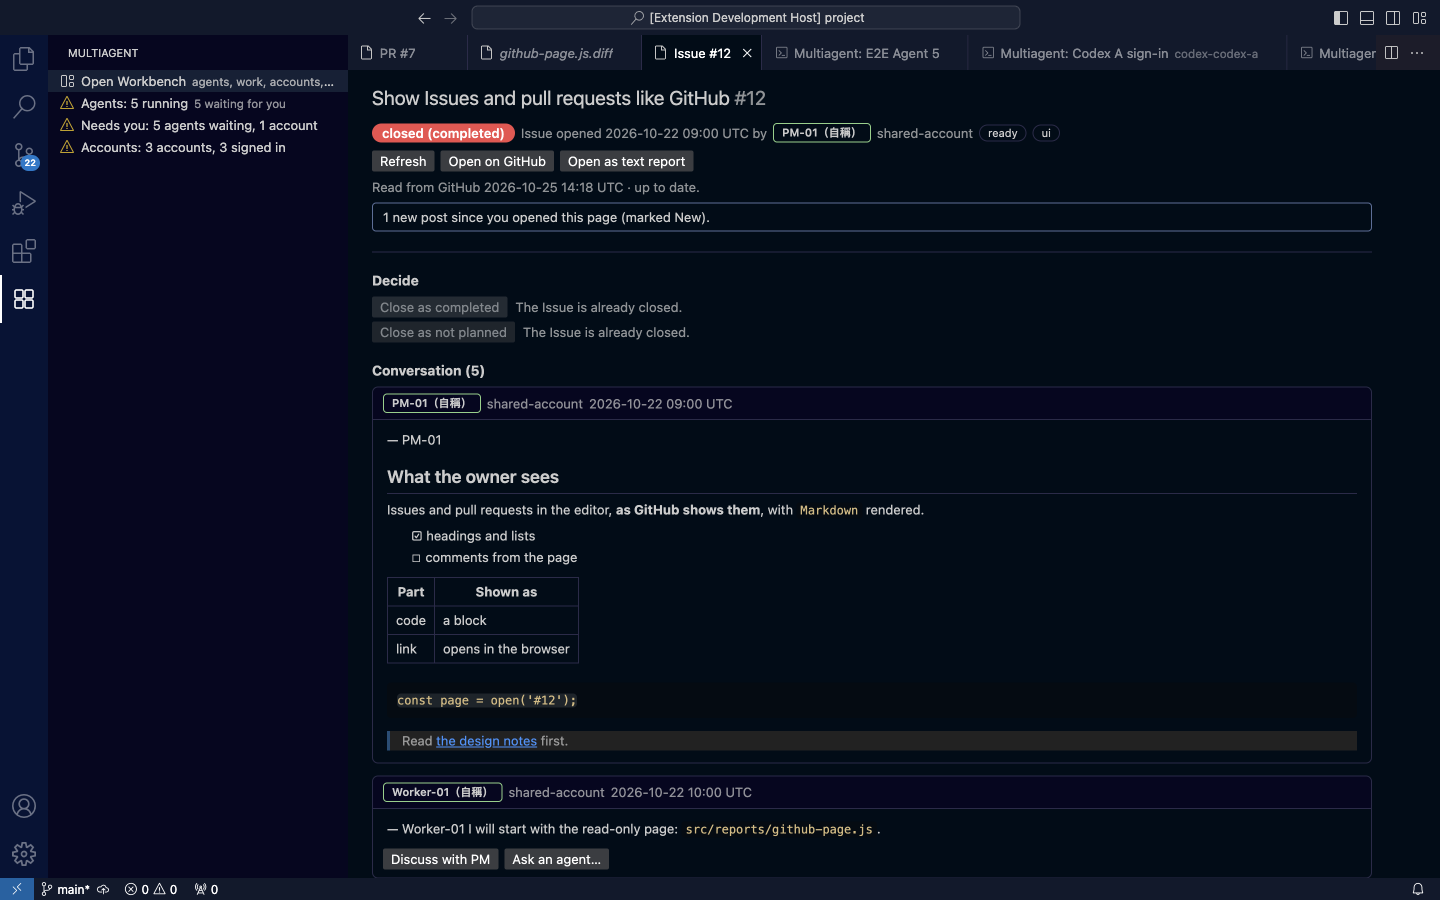
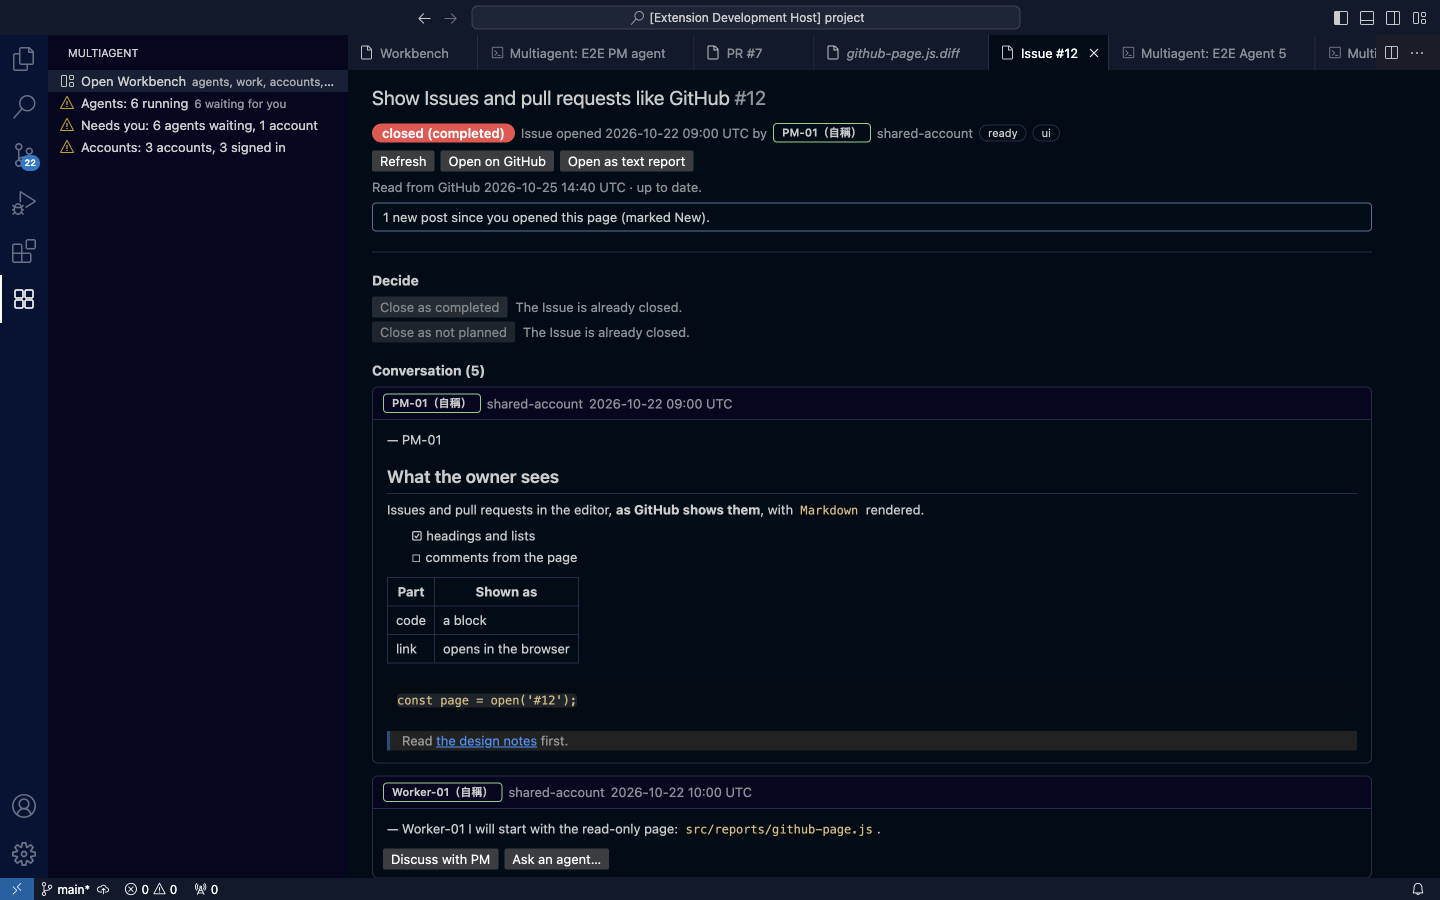
test(e2e): 第 04 項加入 PM agent——在 PR 頁對 review 按 Discuss with PM，PM 只收到一行編號（Refs #383, #360） (#391)
Refs #383, #360

diff --git a/test/e2e/steps.js b/test/e2e/steps.js
@@ -808,9 +808,70 @@ const ITEMS = [
         }
       },
       {
-        name: 'approve-pr',
-        does: 'Type "Thanks, approved." in the comment box at the bottom, click "Approve", read the whole review in the window and click "Submit formal review".',
+        name: 'start-pm-agent',
+        does: 'Run "Multiagent: Create Role Group" from the Command Palette (the Agents tab offers "Create role group…" only before the first one): the PM template, Claude Code, the name "E2E PM", "Create Role Group". Then in the Workbench\'s Agents tab "Start agent…": Claude Code, the name "E2E PM agent", the account "Work A", the role group "E2E PM", the CLI default model; confirm the windows that ask.',
+        run: async ({ page, check, box }) => {
+          await timed('the command "Multiagent: Create Role Group"', () => runCommand(page, 'Multiagent: Create Role Group'));
+          const created = await drive(page, [
+            { when: /Start from a template/, pick: 'PM' },
+            { when: /Which command-line agent runs this role/, pick: 'Claude Code' },
+            { when: /A label you will recognise/, type: 'E2E PM' },
+            { dialog: /^Create role group/, button: 'Create Role Group' }
+          ], async (seen) => seen.some((line) => /Create Role Group/.test(line)) && !(await page.locator('.monaco-dialog-box:visible').first().isVisible().catch(() => false)), 60000);
+          check('the PM role group was created after its confirmation', created.join(' | '), /pick: [\s\S]*PM[\s\S]*Create Role Group/);
+          await clearNotifications(page);
+          const started = () => require('./fakes').readCalls(box.fakes.calls).filter((call) => call.cli === 'claude' && !call.args.includes('auth') && !call.args.includes('--version')).length;
+          const before = started();
+          await clickInWorkbench(page, 'Start agent…', { tab: 'Agents' });
+          await drive(page, [
+            { when: /Choose the CLI to run in a native terminal/, pick: 'Claude Code' },
+            { when: /Terminal name/, type: 'E2E PM agent' },
+            { when: /Choose an account for this new session/, pick: ACCOUNT },
+            { when: /Choose a role group for this agent/, pick: 'E2E PM' },
+            { when: /Select a model/, pick: 'Use CLI default model' },
+            { dialog: /Account isolation is not verified/, button: 'Continue' },
+            { dialog: /auto mode|Auto mode/, button: 'I Understand, Continue' },
+            { dialog: /Effective agent instructions prepared/, button: 'Start Agent' },
+            { dialog: /usage|quota|limit/i, button: 'Start Anyway' }
+          ], async () => started() > before, 90000);
+          check('the PM agent was started', started(), before + 1);
+          const terminal = await page.locator('.terminal-wrapper.active .xterm-rows, .xterm-rows').last().innerText().catch(() => '');
+          check('its terminal says it starts as the PM', terminal, /Multiagent: starting Claude Code \(PM-\d{2}\)/);
+          await clearNotifications(page);
+        }
+      },
+      {
+        name: 'discuss-with-pm',
+        does: 'Back on "PR #7", under PM-01\'s review "Needs changes: one line comment below." click "Discuss with PM", read the window and click "Send Now". Then look at the "E2E PM agent" terminal.',
         run: async ({ page, check }) => {
+          await page.locator('.tabs-container .tab', { hasText: 'PR #7' }).first().click();
+          const frame = await pageFrame(page, 'Read-only Issue and pull request page');
+          await settled(page, frame);
+          const review = frame.locator('.post', { hasText: 'Needs changes: one line comment below.' }).first();
+          await review.locator('.btn', { hasText: 'Discuss with PM' }).click();
+          const answered = await drive(page, [
+            { dialog: /Ask the PM agent to read this post on PR #7 and reply there/, button: 'Send Now' }
+          ], async (seen) => seen.some((line) => /Send Now/.test(line)) && !(await page.locator('.monaco-dialog-box .monaco-button:visible', { hasText: 'Send Now' }).first().isVisible().catch(() => false)), 60000);
+          check('it asked before typing anything to the PM', answered.join(' | '), /dialog: Ask the PM agent to read this post on PR #7 and reply there\? → Send Now/);
+          // What reached the PM is one line of numbers: the pull request and the review id, never the review's text.
+          await page.locator('.tabs-container .tab', { hasText: 'E2E PM agent' }).first().click();
+          const deadline = Date.now() + 20000;
+          let terminal = '';
+          while (Date.now() < deadline) {
+            terminal = await page.locator('.terminal-wrapper.active .xterm-rows, .xterm-rows').last().innerText().catch(() => '');
+            if (/ID\s*7101/.test(terminal)) break;
+            await pause(300);
+          }
+          check('the PM got one line naming PR #7 and review 7101', terminal.replace(/\s+/g, ''), /管理者請你閱讀PR#7的review（ID7101），並在PR#7回覆你的看法。/);
+          check('and not the review\'s text', terminal, (text) => !/one line comment below/.test(text));
+          await clearNotifications(page);
+        }
+      },
+      {
+        name: 'approve-pr',
+        does: 'Back on "PR #7", type "Thanks, approved." in the comment box at the bottom, click "Approve", read the whole review in the window and click "Submit formal review".',
+        run: async ({ page, check }) => {
+          await page.locator('.tabs-container .tab', { hasText: 'PR #7' }).first().click();
           const frame = await pageFrame(page, 'Read-only Issue and pull request page');
           // Temporarily a plain review: "Checked on this head: the page draws Markdown as a tree." is blocked by the privacy scan, which
           // matches every stored string as a substring (#389). Put the original sentence back once #389 is fixed.

diff --git a/test/e2e/report.test.js b/test/e2e/report.test.js
@@ -54,8 +54,9 @@ test('an item is either accepted with nothing pending, or not done with what is 
   }
   // #357: the side bar keeps one entry, and one screen shows every agent with its codename, account and mode.
   assert.deepEqual(ITEMS.filter((item) => item.acceptance === 'accepted').map((item) => item.id), ['00', '01', '11', '02', '03', '08', '04']);
-  // #383: item 04 (after 08, which sets who publishes) sees which decisions are on and why, approves the pull request and closes the Issue.
-  assert.deepEqual(ITEMS.find((item) => item.id === '04').steps.map((step) => step.name), ['see-decisions', 'approve-pr', 'close-issue']);
+  // #383: item 04 (after 08, which sets who publishes) sees which decisions are on and why, starts a PM agent and asks it about the
+  // PM's review (one line of numbers reaches its terminal), approves the pull request and closes the Issue.
+  assert.deepEqual(ITEMS.find((item) => item.id === '04').steps.map((step) => step.name), ['see-decisions', 'start-pm-agent', 'discuss-with-pm', 'approve-pr', 'close-issue']);
   // #353: item 08 reads an Issue and a pull request, opens a diff, writes, publishes and asks an agent about a post.
   // #354: item 06 starts an agent while this window's Claude Code lock exists; the real /ide is still to be walked through (#135).
   assert.match(ITEMS.find((item) => item.id === '06').pending, /#135/);

diff --git a/docs/USER_GUIDE.md b/docs/USER_GUIDE.md
@@ -124,6 +124,16 @@
 
 ![Decide：哪些能按、哪些不能、為什麼](user-guide/images/04-see-decisions.png)
 
+**和 PM agent 一起看**：
+- 前提：要有一個 PM 角色的 agent 在執行。用 Command Palette 執行 `Multiagent: Create Role Group`（還沒有任何身份組時，工作台 **Agents** 分頁也有 **Create role group…**），選 **PM** 範本建立身份組，再用 **Start agent…** 以這個身份組啟動一個 agent，它的代號會是 `PM-01` 這類名稱。
+- 在任一則留言或 review 下按 **Discuss with PM**，確認視窗會問 `Ask the PM agent to read this post on PR #7 and reply there?`，按 **Send Now**。
+- PM 的終端機只會收到一行編號，例如 `管理者請你閱讀 PR #7 的 review（ID 7101），並在 PR #7 回覆你的看法。`，不會收到 review 的內容。PM 讀完後會在 GitHub 回覆，回覆會出現在這個頁面上，標著 **New**。
+- 你也可以在留言框寫好留言，按 **Comment and tell PM**（見第 8 章）。
+
+![啟動 PM agent](user-guide/images/04-start-pm-agent.png)
+
+![請 PM 看這則 review](user-guide/images/04-discuss-with-pm.png)
+
 **Approve／Request changes**：
 1. 在頁面最下方的留言框寫好 review 內容（留言框是空的話，會跳出輸入框問你）。
 2. 按 **Approve** 或 **Request changes**。
